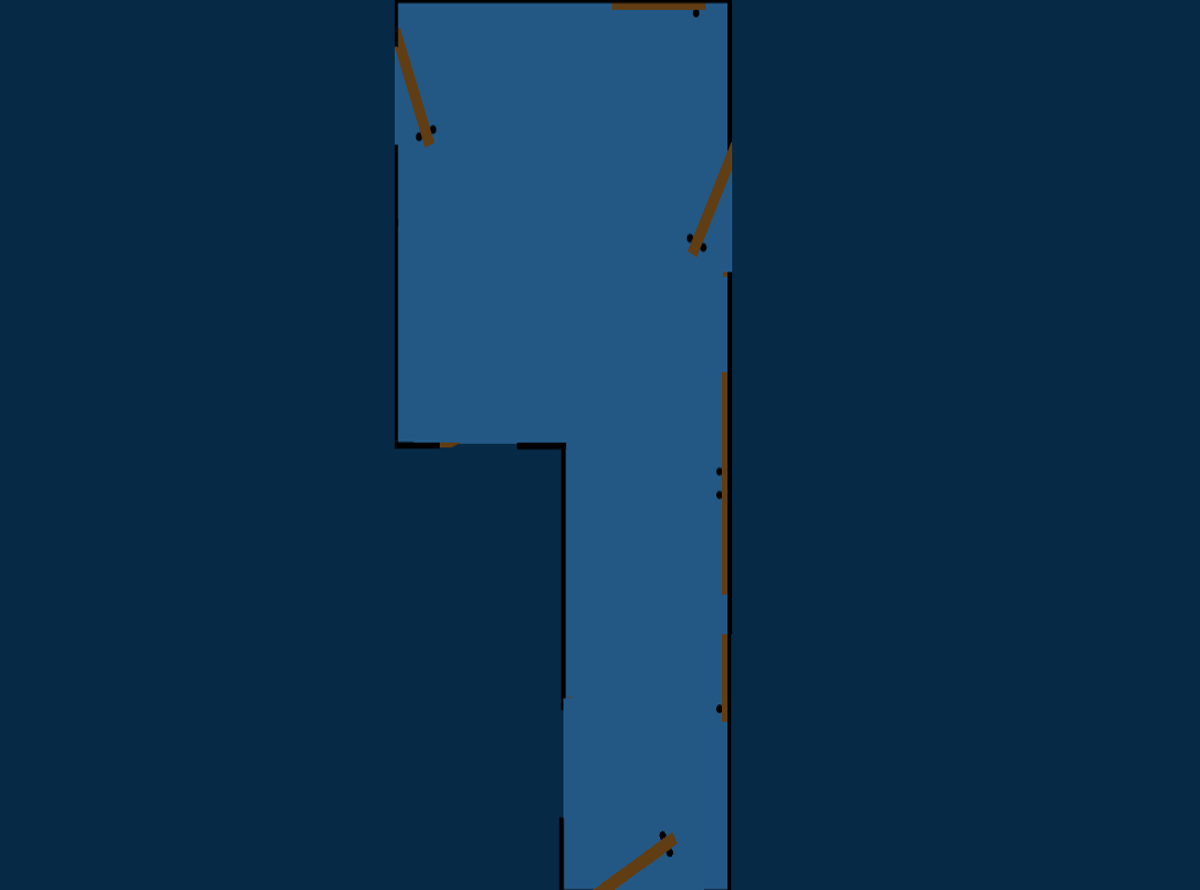
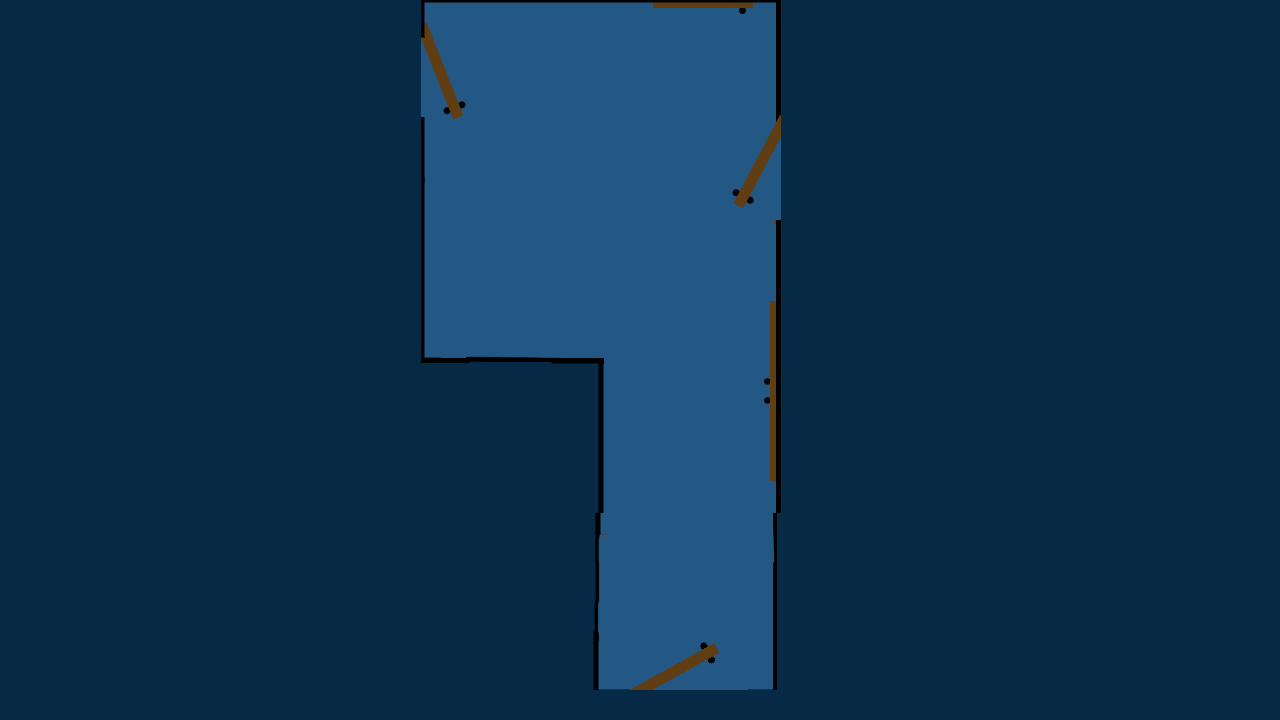
final rooms added

Changed region(s): [[0.4625, 0.7028, 0.6167, 1.0], [0.37, 0.4889, 0.4317, 0.5194]]

diff --git a/src/GameBoard.java b/src/GameBoard.java
@@ -31,13 +31,17 @@ public class GameBoard extends JPanel implements ActionListener {
         player = new PlayerMoveable(this);
 
 
-        Rooms.LABS.setDoors(new Door[]{new Door(1100, 0, 680,490, Rooms.UPPER_HALL), new Door(0, 720, 750,490, Rooms.KITCHEN)});
-        Rooms.KITCHEN.setDoors(new Door[]{new Door(740, 0,0, 720, Rooms.LABS), new Door(1050,0,600,790,Rooms.VERTICAL_HALL),
-        new Door(0,50,0,0,null), new Door(1120,700,0,0,null)});
-        Rooms.UPPER_HALL.setDoors(new Door[]{new Door(680,490,1100,0, Rooms.LABS), new Door(0,264,0,0,null), new Door(1150, 260,400,40,Rooms.VERTICAL_HALL)});
+        Rooms.LABS.setDoors(new Door[]{new Door(1100, 0, 680,490, Rooms.UPPER_HALL), new Door(0, 720, 740,10, Rooms.KITCHEN)});
+        Rooms.KITCHEN.setDoors(new Door[]{new Door(740, 0,0, 720, Rooms.LABS), new Door(1050,0,600,750,Rooms.VERTICAL_HALL),
+        new Door(0,50,750,730,Rooms.WEST_HALL), new Door(1120,700,244,281,Rooms.OUTSIDE)});
+        Rooms.UPPER_HALL.setDoors(new Door[]{new Door(680,490,1100,0, Rooms.LABS), new Door(0,264,510,10,Rooms.WEST_HALL), new Door(1150, 260,400,40,Rooms.VERTICAL_HALL)});
         Rooms.VERTICAL_HALL.setDoors(new Door[]{new Door(400,40,1100,260,Rooms.UPPER_HALL), new Door(690,160,520,750,Rooms.JON_OFFICE), new Door(600,790,1050,0,Rooms.KITCHEN)});
         this.room = Rooms.VERTICAL_HALL;
-        Rooms.JON_OFFICE.setDoors(new Door[]{new Door(520,790,690,160,Rooms.VERTICAL_HALL)});
+        Rooms.JON_OFFICE.setDoors(new Door[]{new Door(520,790,670,160,Rooms.VERTICAL_HALL)});
+        Rooms.WEST_HALL.setDoors(new Door[]{new Door(750,730,0,50, Rooms.KITCHEN), new Door(460,610,1100,400,Rooms.SUS_ROOM),
+        new Door(510,0,10,264,Rooms.UPPER_HALL)});
+        Rooms.SUS_ROOM.setDoors(new Door[]{new Door(1100,400,460,610, Rooms.WEST_HALL)});
+        Rooms.OUTSIDE.setDoors(new Door[]{new Door(219,274,1100,700, Rooms.KITCHEN)});
 
         room.roomDesc(Main.box);
 

diff --git a/src/Rooms.java b/src/Rooms.java
@@ -77,4 +77,9 @@ public class Rooms {
     public static final Room JON_OFFICE = new Room("Jon's office","Jon's magnificent office.",
             "assets/jon_office.png",null,null,new IWorldObject[]{jLeft, jTop, jRight, jBed, jTable});
 
+    public static final Room WEST_HALL = new Room("West hall","The west hall that connects you to the kitchen, the meeting room, and another hallway.",
+            "assets/west_hall.png",null,null,null);
+    public static final Room SUS_ROOM = new Room("Meeting room", "A suspicious meeting room.", "assets/sus_room.png", null,null,null);
+    public static final Room OUTSIDE = new Room("Outside","The area outside of the Jack Cole", "assets/outside.png",null,null, null);
+
 }
